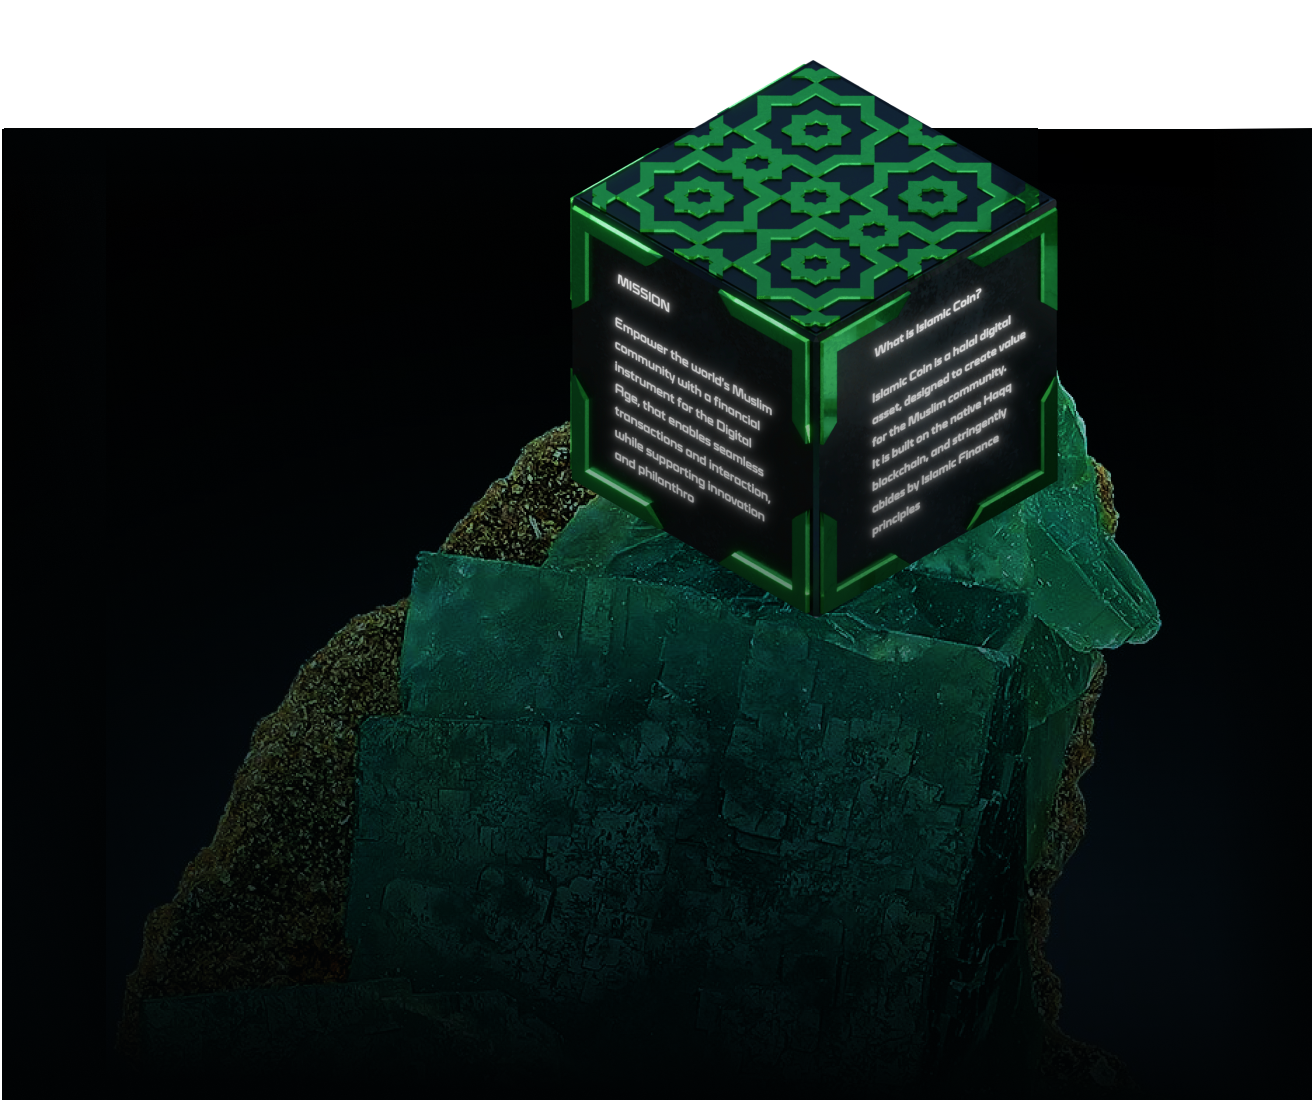
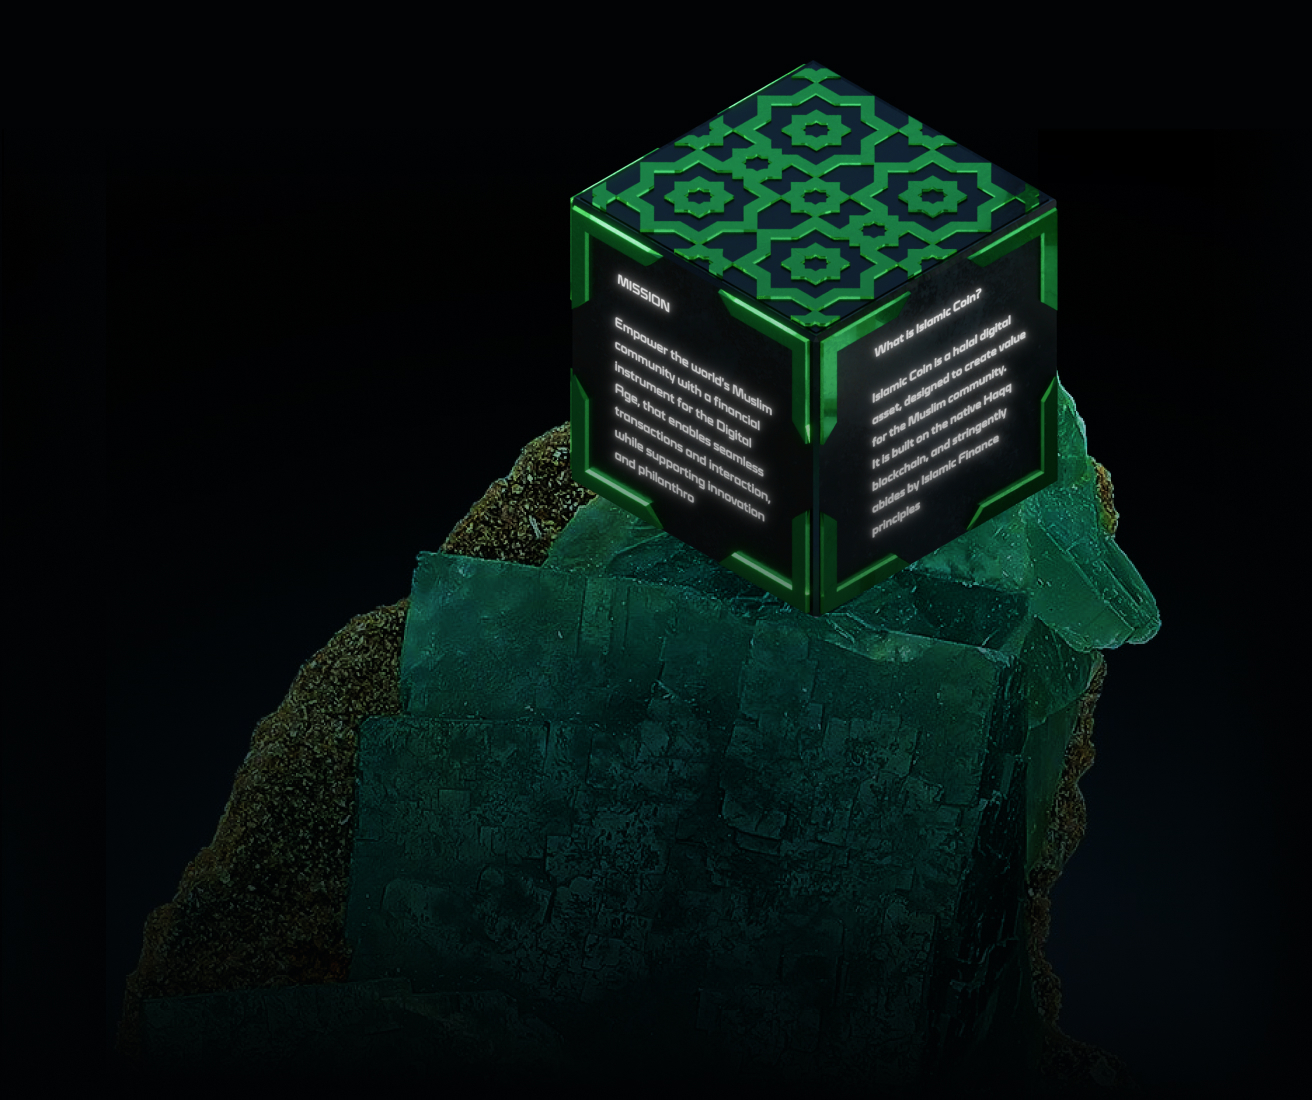
fix(islamic-website): hero bg image position & rock image asset update

Changed region(s): [[0.0, 0.0, 1.0, 0.1236]]

diff --git a/libs/islamic-website/index-page/src/lib/index-page/index-page.tsx b/libs/islamic-website/index-page/src/lib/index-page/index-page.tsx
@@ -50,19 +50,20 @@ function Hero() {
 
         <div
           className={clsx(
-            'absolute top-0 z-[-1] select-none',
-            'translate-x-[-50%] translate-y-[48%]',
-            'md:translate-x-0 md:translate-y-[-12%]',
-            'xl:translate-x-[-1.5%] xl:translate-y-[-24.5%]',
+            'absolute z-[-1] select-none',
+            'h-[1011px] w-[1038px] md:h-[877px] md:w-[901px] lg:h-[1400px] lg:w-[1440px]',
+            '-top-1/2 right-1/2 translate-x-[37%] translate-y-[30%]',
+            'md:translate-x-1/2 md:translate-y-[44%]',
+            'lg:translate-y-[18%]',
+            'xl:translate-y-[15%]',
           )}
         >
           <div className="z-1 pointer-events-none absolute inset-0 scale-[3.5] bg-gradient-to-r from-[#010304] from-10% to-transparent md:scale-100 lg:scale-[1.5] xl:scale-100" />
           <Image
             src={moonBgImageData}
             alt=""
-            width={2878}
-            height={2802}
-            className="pointer-events-none relative z-[-2] scale-[3.5] md:scale-100 lg:scale-[1.5] xl:scale-100"
+            fill
+            className="pointer-events-none z-[-2]"
           />
         </div>
       </Container>

diff --git a/libs/islamic-website/index-page/src/lib/hero-block/hero-block.tsx b/libs/islamic-website/index-page/src/lib/hero-block/hero-block.tsx
@@ -1,4 +1,4 @@
-import { Button, Container, GradientText, Text } from '@haqq/islamic-ui-kit';
+import { Button, GradientText, Text } from '@haqq/islamic-ui-kit';
 
 export function HeroBlock() {
   return (
